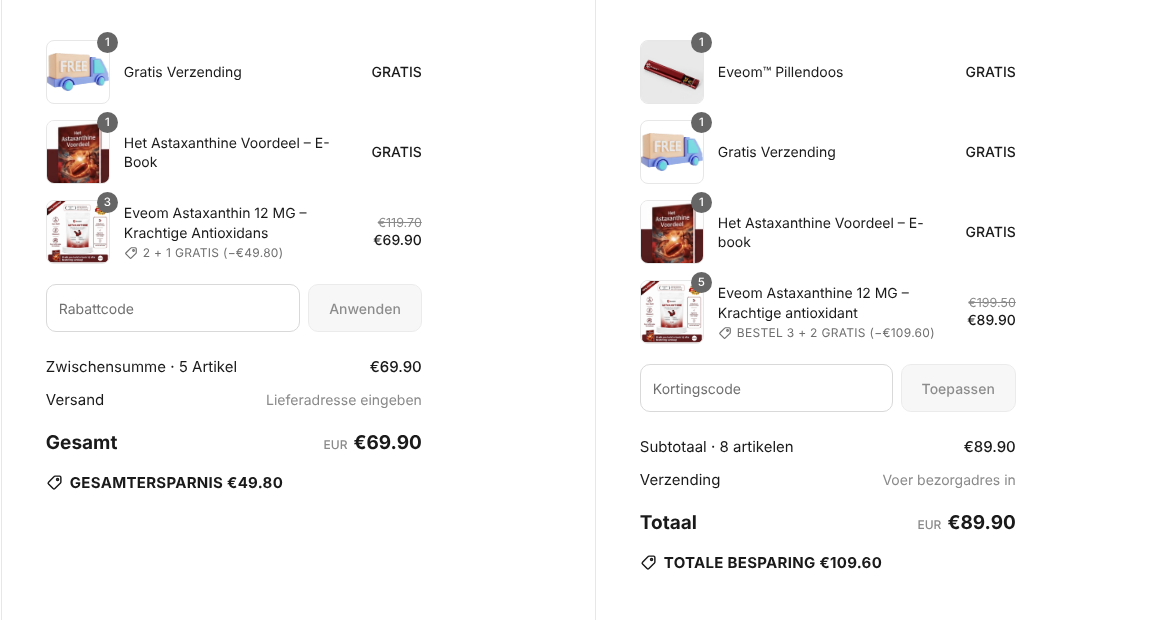
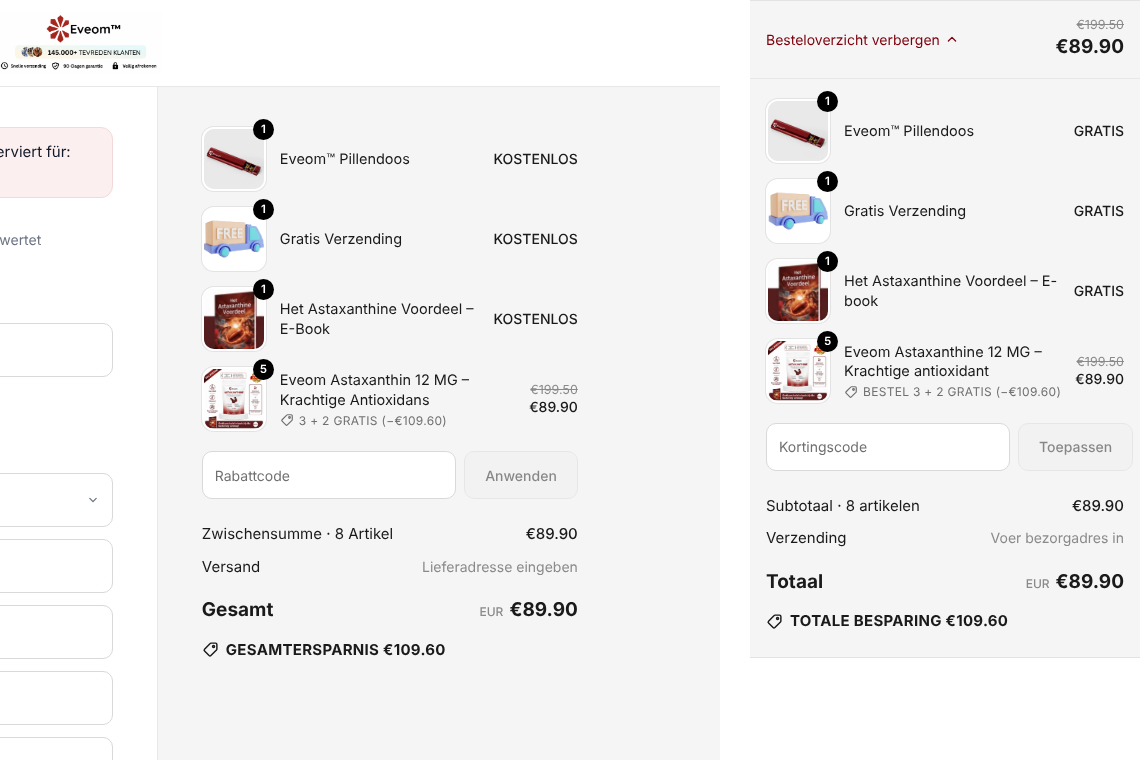
CrispCheckout-Bestellübersicht: Shopify-Look (grauer Hintergrund, schwarze Mengen-Kreise, Bildrahmen)
Claude-Session: https://claude.ai/code/session_01JC725NrFUyFnU3JAyFkwvd

diff --git a/shopify-sections/eveom-garantie.html b/shopify-sections/eveom-garantie.html
@@ -24,7 +24,7 @@ window.__eveomSum = 1;
 var EINZELPREIS = 39.90; // Normalpreis einer Dose in EUR
 var PRODUKT = /astaxanth/i;
 var T = {
-de: { free: &#x27;GRATIS&#x27;, save: &#x27;GESAMTERSPARNIS&#x27;, b3: &#x27;2 + 1 GRATIS&#x27;, b5: &#x27;3 + 2 GRATIS&#x27; },
+de: { free: &#x27;KOSTENLOS&#x27;, save: &#x27;GESAMTERSPARNIS&#x27;, b3: &#x27;2 + 1 GRATIS&#x27;, b5: &#x27;3 + 2 GRATIS&#x27; },
 nl: { free: &#x27;GRATIS&#x27;, save: &#x27;TOTALE BESPARING&#x27;, b3: &#x27;BESTEL 2 + 1 GRATIS&#x27;, b5: &#x27;BESTEL 3 + 2 GRATIS&#x27; },
 en: { free: &#x27;FREE&#x27;, save: &#x27;TOTAL SAVINGS&#x27;, b3: &#x27;BUY 2 + GET 1 FREE&#x27;, b5: &#x27;BUY 3 + GET 2 FREE&#x27; },
 fr: { free: &#x27;GRATUIT&#x27;, save: &#x27;ÉCONOMIES TOTALES&#x27;, b3: &#x27;2 ACHETÉS + 1 OFFERT&#x27;, b5: &#x27;3 ACHETÉS + 2 OFFERTS&#x27; }
@@ -164,4 +164,12 @@ lauf();
   .ev-tag { display: flex; align-items: center; gap: 5px; margin: 3px 0 0; font-size: 12px; line-height: 1.3; letter-spacing: .3px; color: #707070; }
   .ev-save { display: flex; align-items: center; gap: 7px; padding-top: 4px; font-size: 15px; font-weight: 700; letter-spacing: .3px; color: #1a1a1a; }
   .ev-save svg { width: 17px; height: 17px; }
+  /* Bestellübersicht im Shopify-Look: grauer Hintergrund, schwarze Mengen-Kreise, Bilder mit weißem Rahmen */
+  main aside, main aside > div, main aside section,
+  main section.border-y, main section.border-y > div { background-color: #f5f5f5 !important; }
+  main section.border-y { border-color: #e3e3e3 !important; }
+  main section ul > li img { box-sizing: border-box; border: 2px solid #ffffff !important; border-radius: 12px !important; box-shadow: 0 0 0 1px #e3e3e3; background: #ffffff; }
+  main section ul > li .relative > span { background: #000000 !important; color: #ffffff !important; font-weight: 600 !important; }
+  main section ul > li .min-w-0 p:not(.ev-tag) { font-size: 14.5px !important; }
+  main section form input { background: #ffffff !important; }
 </style>

diff --git a/shopify-sections/crisp-bestelluebersicht.js b/shopify-sections/crisp-bestelluebersicht.js
@@ -11,7 +11,7 @@
   var EINZELPREIS = 39.90; // Normalpreis einer Dose in EUR
   var PRODUKT = /astaxanth/i;
   var T = {
-    de: { free: 'GRATIS', save: 'GESAMTERSPARNIS', b3: '2 + 1 GRATIS', b5: '3 + 2 GRATIS' },
+    de: { free: 'KOSTENLOS', save: 'GESAMTERSPARNIS', b3: '2 + 1 GRATIS', b5: '3 + 2 GRATIS' },
     nl: { free: 'GRATIS', save: 'TOTALE BESPARING', b3: 'BESTEL 2 + 1 GRATIS', b5: 'BESTEL 3 + 2 GRATIS' },
     en: { free: 'FREE', save: 'TOTAL SAVINGS', b3: 'BUY 2 + GET 1 FREE', b5: 'BUY 3 + GET 2 FREE' },
     fr: { free: 'GRATUIT', save: 'ÉCONOMIES TOTALES', b3: '2 ACHETÉS + 1 OFFERT', b5: '3 ACHETÉS + 2 OFFERTS' }
